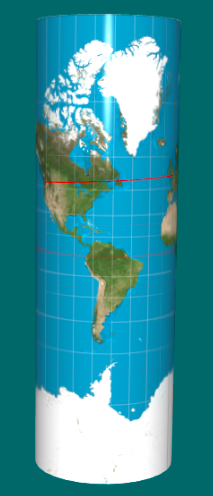
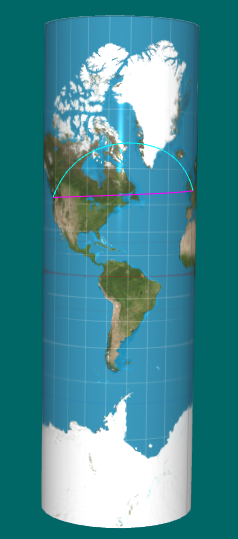
New images in doc.

diff --git a/13-webgl/extras/doc-light/global.html b/13-webgl/extras/doc-light/global.html
@@ -215,7 +215,7 @@ Step 0.5° ⇒ 60 fps = 30°/s ⇒ 360° in 12s
     
     <dt class="tag-source">Source:</dt>
     <dd class="tag-source"><ul class="dummy"><li>
-        <a href="extras_LightingWithTexture.js.html">extras/LightingWithTexture.js</a>, <a href="extras_LightingWithTexture.js.html#line6967">line 6967</a>
+        <a href="extras_LightingWithTexture.js.html">extras/LightingWithTexture.js</a>, <a href="extras_LightingWithTexture.js.html#line6977">line 6977</a>
     </li></ul></dd>
     
 
@@ -5906,7 +5906,7 @@ on the right (intrinsic rotation).
     
     <dt class="tag-source">Source:</dt>
     <dd class="tag-source"><ul class="dummy"><li>
-        <a href="extras_LightingWithTexture.js.html">extras/LightingWithTexture.js</a>, <a href="extras_LightingWithTexture.js.html#line7001">line 7001</a>
+        <a href="extras_LightingWithTexture.js.html">extras/LightingWithTexture.js</a>, <a href="extras_LightingWithTexture.js.html#line7011">line 7011</a>
     </li></ul></dd>
     
 
@@ -12767,7 +12767,7 @@ Then, triggers the animation to update the canvas.
     
     <dt class="tag-source">Source:</dt>
     <dd class="tag-source"><ul class="dummy"><li>
-        <a href="extras_LightingWithTexture.js.html">extras/LightingWithTexture.js</a>, <a href="extras_LightingWithTexture.js.html#line6734">line 6734</a>
+        <a href="extras_LightingWithTexture.js.html">extras/LightingWithTexture.js</a>, <a href="extras_LightingWithTexture.js.html#line6744">line 6744</a>
     </li></ul></dd>
     
 
@@ -22295,7 +22295,7 @@ if longitude is in the western hemisphere.
     
     <dt class="tag-source">Source:</dt>
     <dd class="tag-source"><ul class="dummy"><li>
-        <a href="extras_LightingWithTexture.js.html">extras/LightingWithTexture.js</a>, <a href="extras_LightingWithTexture.js.html#line6952">line 6952</a>
+        <a href="extras_LightingWithTexture.js.html">extras/LightingWithTexture.js</a>, <a href="extras_LightingWithTexture.js.html#line6962">line 6962</a>
     </li></ul></dd>
     
 
@@ -22457,7 +22457,7 @@ The perpendicular vector is in the xz-plane, with y = 0.
     
     <dt class="tag-source">Source:</dt>
     <dd class="tag-source"><ul class="dummy"><li>
-        <a href="extras_LightingWithTexture.js.html">extras/LightingWithTexture.js</a>, <a href="extras_LightingWithTexture.js.html#line6932">line 6932</a>
+        <a href="extras_LightingWithTexture.js.html">extras/LightingWithTexture.js</a>, <a href="extras_LightingWithTexture.js.html#line6942">line 6942</a>
     </li></ul></dd>
     
 
@@ -22980,7 +22980,7 @@ Uses the <a href="global.html#lightingShader">lightingShader</a>.
     
     <dt class="tag-source">Source:</dt>
     <dd class="tag-source"><ul class="dummy"><li>
-        <a href="extras_LightingWithTexture.js.html">extras/LightingWithTexture.js</a>, <a href="extras_LightingWithTexture.js.html#line6845">line 6845</a>
+        <a href="extras_LightingWithTexture.js.html">extras/LightingWithTexture.js</a>, <a href="extras_LightingWithTexture.js.html#line6855">line 6855</a>
     </li></ul></dd>
     
 
@@ -24295,7 +24295,7 @@ against a <a href="https://mathworld.wolfram.com/QuadraticSurface.html">quadric 
     
     <dt class="tag-source">Source:</dt>
     <dd class="tag-source"><ul class="dummy"><li>
-        <a href="extras_LightingWithTexture.js.html">extras/LightingWithTexture.js</a>, <a href="extras_LightingWithTexture.js.html#line6753">line 6753</a>
+        <a href="extras_LightingWithTexture.js.html">extras/LightingWithTexture.js</a>, <a href="extras_LightingWithTexture.js.html#line6763">line 6763</a>
     </li></ul></dd>
     
 
@@ -24482,7 +24482,7 @@ against a <a href="https://mathworld.wolfram.com/QuadraticSurface.html">quadric 
     
     <dt class="tag-source">Source:</dt>
     <dd class="tag-source"><ul class="dummy"><li>
-        <a href="extras_LightingWithTexture.js.html">extras/LightingWithTexture.js</a>, <a href="extras_LightingWithTexture.js.html#line6400">line 6400</a>
+        <a href="extras_LightingWithTexture.js.html">extras/LightingWithTexture.js</a>, <a href="extras_LightingWithTexture.js.html#line6410">line 6410</a>
     </li></ul></dd>
     
 
@@ -24701,7 +24701,7 @@ against a <a href="https://mathworld.wolfram.com/QuadraticSurface.html">quadric 
     
     <dt class="tag-source">Source:</dt>
     <dd class="tag-source"><ul class="dummy"><li>
-        <a href="extras_LightingWithTexture.js.html">extras/LightingWithTexture.js</a>, <a href="extras_LightingWithTexture.js.html#line6358">line 6358</a>
+        <a href="extras_LightingWithTexture.js.html">extras/LightingWithTexture.js</a>, <a href="extras_LightingWithTexture.js.html#line6368">line 6368</a>
     </li></ul></dd>
     
 
@@ -24881,7 +24881,7 @@ against a <a href="https://mathworld.wolfram.com/QuadraticSurface.html">quadric 
     
     <dt class="tag-source">Source:</dt>
     <dd class="tag-source"><ul class="dummy"><li>
-        <a href="extras_LightingWithTexture.js.html">extras/LightingWithTexture.js</a>, <a href="extras_LightingWithTexture.js.html#line6378">line 6378</a>
+        <a href="extras_LightingWithTexture.js.html">extras/LightingWithTexture.js</a>, <a href="extras_LightingWithTexture.js.html#line6388">line 6388</a>
     </li></ul></dd>
     
 
@@ -25100,7 +25100,7 @@ against a <a href="https://mathworld.wolfram.com/QuadraticSurface.html">quadric 
     
     <dt class="tag-source">Source:</dt>
     <dd class="tag-source"><ul class="dummy"><li>
-        <a href="extras_LightingWithTexture.js.html">extras/LightingWithTexture.js</a>, <a href="extras_LightingWithTexture.js.html#line6337">line 6337</a>
+        <a href="extras_LightingWithTexture.js.html">extras/LightingWithTexture.js</a>, <a href="extras_LightingWithTexture.js.html#line6347">line 6347</a>
     </li></ul></dd>
     
 
@@ -25438,7 +25438,7 @@ number of great circles that pass through them.
     
     <dt class="tag-source">Source:</dt>
     <dd class="tag-source"><ul class="dummy"><li>
-        <a href="extras_LightingWithTexture.js.html">extras/LightingWithTexture.js</a>, <a href="extras_LightingWithTexture.js.html#line6270">line 6270</a>
+        <a href="extras_LightingWithTexture.js.html">extras/LightingWithTexture.js</a>, <a href="extras_LightingWithTexture.js.html#line6280">line 6280</a>
     </li></ul></dd>
     
 
@@ -25650,7 +25650,7 @@ number of great circles that pass through them.
     
     <dt class="tag-source">Source:</dt>
     <dd class="tag-source"><ul class="dummy"><li>
-        <a href="extras_LightingWithTexture.js.html">extras/LightingWithTexture.js</a>, <a href="extras_LightingWithTexture.js.html#line6713">line 6713</a>
+        <a href="extras_LightingWithTexture.js.html">extras/LightingWithTexture.js</a>, <a href="extras_LightingWithTexture.js.html#line6723">line 6723</a>
     </li></ul></dd>
     
 
@@ -26024,6 +26024,9 @@ this path is a circular helix, which has constant curvature and constant torsion
     <p>Return an array with n points on a loxodrome (rhumb line) from loc1
 to loc2 on a sphere, by using a <a href="global.html#longitudeOnRhumbLine">parametrization</a>
 of the loxodrome.</p>
+The loxodrome path is calculated in 3D onto the sphere, and not using the planar chart.
+Therefore, the correct curve will be traced even for an equirectanguler cylindrical projection,
+as opposed to <a href="global.html#pointsOnLoxodrome">pointsOnLoxodrome</a>, which is faster but intended to Mercator projections.
 </div>
 
 
@@ -26206,7 +26209,7 @@ of the loxodrome.</p>
     
     <dt class="tag-source">Source:</dt>
     <dd class="tag-source"><ul class="dummy"><li>
-        <a href="extras_LightingWithTexture.js.html">extras/LightingWithTexture.js</a>, <a href="extras_LightingWithTexture.js.html#line6166">line 6166</a>
+        <a href="extras_LightingWithTexture.js.html">extras/LightingWithTexture.js</a>, <a href="extras_LightingWithTexture.js.html#line6176">line 6176</a>
     </li></ul></dd>
     
 
@@ -26217,6 +26220,14 @@ of the loxodrome.</p>
     <dd class="tag-see">
         <ul>
             <li><a href="https://www.atractor.pt/mat/loxodromica/saber_parametrizacao1-_en.html">Parametrization of the loxodrome</a></li>
+        
+            <li><figure>
+     <a href="../images/Cape_Horn-Kurgan-sphere.png"><img src="../images/Cape_Horn-Kurgan-sphere.png" height="256"></a>
+     <a href="../images/Cape_Horn-Kurgan-map.png"><img src="../images/Cape_Horn-Kurgan-map.png" height="256"></a>
+     <a href="../images/Cape_Horn-Kurgan-cylinder.png"><img src="../images/Cape_Horn-Kurgan-cylinder.png" height="256"></a>
+     <a href="../images/Cape_Horn-Kurgan-cone.png"><img src="../images/Cape_Horn-Kurgan-cone.png" height="256"></a>
+     <figcaption style="font-size: 200%">Cape Horn - Kurgan (17150 km, 44.51°)</figcaption>
+     </figure></li>
         </ul>
     </dd>
     
@@ -28931,7 +28942,7 @@ is used as the starting point.
     
     <dt class="tag-source">Source:</dt>
     <dd class="tag-source"><ul class="dummy"><li>
-        <a href="extras_LightingWithTexture.js.html">extras/LightingWithTexture.js</a>, <a href="extras_LightingWithTexture.js.html#line6425">line 6425</a>
+        <a href="extras_LightingWithTexture.js.html">extras/LightingWithTexture.js</a>, <a href="extras_LightingWithTexture.js.html#line6435">line 6435</a>
     </li></ul></dd>
     
 
@@ -29306,7 +29317,7 @@ For instance, a cube's face texture coordinates span from 0 to 1.
     
     <dt class="tag-source">Source:</dt>
     <dd class="tag-source"><ul class="dummy"><li>
-        <a href="extras_LightingWithTexture.js.html">extras/LightingWithTexture.js</a>, <a href="extras_LightingWithTexture.js.html#line6798">line 6798</a>
+        <a href="extras_LightingWithTexture.js.html">extras/LightingWithTexture.js</a>, <a href="extras_LightingWithTexture.js.html#line6808">line 6808</a>
     </li></ul></dd>
     
 
@@ -30812,7 +30823,7 @@ redrawn.
     
     <dt class="tag-source">Source:</dt>
     <dd class="tag-source"><ul class="dummy"><li>
-        <a href="extras_LightingWithTexture.js.html">extras/LightingWithTexture.js</a>, <a href="extras_LightingWithTexture.js.html#line6506">line 6506</a>
+        <a href="extras_LightingWithTexture.js.html">extras/LightingWithTexture.js</a>, <a href="extras_LightingWithTexture.js.html#line6516">line 6516</a>
     </li></ul></dd>
     
 
@@ -34524,7 +34535,7 @@ model or not.
     
     <dt class="tag-source">Source:</dt>
     <dd class="tag-source"><ul class="dummy"><li>
-        <a href="extras_LightingWithTexture.js.html">extras/LightingWithTexture.js</a>, <a href="extras_LightingWithTexture.js.html#line6801">line 6801</a>
+        <a href="extras_LightingWithTexture.js.html">extras/LightingWithTexture.js</a>, <a href="extras_LightingWithTexture.js.html#line6811">line 6811</a>
     </li></ul></dd>
     
 
@@ -34612,7 +34623,7 @@ model or not.
     
     <dt class="tag-source">Source:</dt>
     <dd class="tag-source"><ul class="dummy"><li>
-        <a href="extras_LightingWithTexture.js.html">extras/LightingWithTexture.js</a>, <a href="extras_LightingWithTexture.js.html#line7007">line 7007</a>
+        <a href="extras_LightingWithTexture.js.html">extras/LightingWithTexture.js</a>, <a href="extras_LightingWithTexture.js.html#line7017">line 7017</a>
     </li></ul></dd>
     
 
@@ -37564,7 +37575,7 @@ the event is dispatched.</p>
     
     <dt class="tag-source">Source:</dt>
     <dd class="tag-source"><ul class="dummy"><li>
-        <a href="extras_LightingWithTexture.js.html">extras/LightingWithTexture.js</a>, <a href="extras_LightingWithTexture.js.html#line6509">line 6509</a>
+        <a href="extras_LightingWithTexture.js.html">extras/LightingWithTexture.js</a>, <a href="extras_LightingWithTexture.js.html#line6519">line 6519</a>
     </li></ul></dd>
     
 
@@ -37762,7 +37773,7 @@ the event is dispatched.</p>
     
     <dt class="tag-source">Source:</dt>
     <dd class="tag-source"><ul class="dummy"><li>
-        <a href="extras_LightingWithTexture.js.html">extras/LightingWithTexture.js</a>, <a href="extras_LightingWithTexture.js.html#line6530">line 6530</a>
+        <a href="extras_LightingWithTexture.js.html">extras/LightingWithTexture.js</a>, <a href="extras_LightingWithTexture.js.html#line6540">line 6540</a>
     </li></ul></dd>
     
 
@@ -39539,7 +39550,7 @@ the event is dispatched.</p>
     
     <dt class="tag-source">Source:</dt>
     <dd class="tag-source"><ul class="dummy"><li>
-        <a href="extras_LightingWithTexture.js.html">extras/LightingWithTexture.js</a>, <a href="extras_LightingWithTexture.js.html#line6544">line 6544</a>
+        <a href="extras_LightingWithTexture.js.html">extras/LightingWithTexture.js</a>, <a href="extras_LightingWithTexture.js.html#line6554">line 6554</a>
     </li></ul></dd>
     
 
@@ -39747,7 +39758,7 @@ Executed when the slider is changed.
 <br class="clear">
 
 <footer>
-    Documentation generated by <a href="https://github.com/jsdoc/jsdoc">JSDoc 4.0.4</a> on Sun May 24 2026 08:45:59 GMT-0300 (Brasilia Standard Time)
+    Documentation generated by <a href="https://github.com/jsdoc/jsdoc">JSDoc 4.0.4</a> on Sun May 24 2026 10:15:10 GMT-0300 (Brasilia Standard Time)
 </footer>
 
 <script> prettyPrint(); </script>

diff --git a/13-webgl/extras/doc-light/extras_LightingWithTexture.js.html b/13-webgl/extras/doc-light/extras_LightingWithTexture.js.html
@@ -6185,11 +6185,21 @@ function longitudeOnRhumbLine(long0, lat0, lat, bearing) {
  * &lt;p>Return an array with n points on a loxodrome (rhumb line) from loc1
  * to loc2 on a sphere, by using a {@link longitudeOnRhumbLine parametrization}
  * of the loxodrome.&lt;/p>
+ * The loxodrome path is calculated in 3D onto the sphere, and not using the planar chart.
+ * Therefore, the correct curve will be traced even for an equirectanguler cylindrical projection,
+ * as opposed to {@link pointsOnLoxodrome}, which is faster but intended to Mercator projections.
  * @param {gpsCoordinates} loc1 first location with latitude and longitude.
  * @param {gpsCoordinates} loc2 second location with latitude and longitude.
  * @param {Number} [n={@link nsegments}] number of points.
  * @returns {Float32Array} array with cartesian coordinates.
  * @see {@link https://www.atractor.pt/mat/loxodromica/saber_parametrizacao1-_en.html Parametrization of the loxodrome}
+ * @see &lt;figure>
+ *      &lt;a href="../images/Cape_Horn-Kurgan-sphere.png">&lt;img src="../images/Cape_Horn-Kurgan-sphere.png" height="256">&lt;/a>
+ *      &lt;a href="../images/Cape_Horn-Kurgan-map.png">&lt;img src="../images/Cape_Horn-Kurgan-map.png" height="256">&lt;/a>
+ *      &lt;a href="../images/Cape_Horn-Kurgan-cylinder.png">&lt;img src="../images/Cape_Horn-Kurgan-cylinder.png" height="256">&lt;/a>
+ *      &lt;a href="../images/Cape_Horn-Kurgan-cone.png">&lt;img src="../images/Cape_Horn-Kurgan-cone.png" height="256">&lt;/a>
+ *      &lt;figcaption style="font-size: 200%">Cape Horn - Kurgan (17150 km, 44.51°)&lt;/figcaption>
+ *      &lt;/figure>
  */
 function pointsOnLoxodrome2(loc1, loc2, n = nsegments) {
   const lat1 = clamp(loc1.latitude, -maxLatitude, maxLatitude);
@@ -7088,7 +7098,7 @@ const animate = (() => {
 <br class="clear">
 
 <footer>
-    Documentation generated by <a href="https://github.com/jsdoc/jsdoc">JSDoc 4.0.4</a> on Sun May 24 2026 08:45:59 GMT-0300 (Brasilia Standard Time)
+    Documentation generated by <a href="https://github.com/jsdoc/jsdoc">JSDoc 4.0.4</a> on Sun May 24 2026 10:15:10 GMT-0300 (Brasilia Standard Time)
 </footer>
 
 <script> prettyPrint(); </script>

diff --git a/13-webgl/extras/LightingWithTexture.js b/13-webgl/extras/LightingWithTexture.js
@@ -6157,11 +6157,21 @@ function longitudeOnRhumbLine(long0, lat0, lat, bearing) {
  * <p>Return an array with n points on a loxodrome (rhumb line) from loc1
  * to loc2 on a sphere, by using a {@link longitudeOnRhumbLine parametrization}
  * of the loxodrome.</p>
+ * The loxodrome path is calculated in 3D onto the sphere, and not using the planar chart.
+ * Therefore, the correct curve will be traced even for an equirectanguler cylindrical projection,
+ * as opposed to {@link pointsOnLoxodrome}, which is faster but intended to Mercator projections.
  * @param {gpsCoordinates} loc1 first location with latitude and longitude.
  * @param {gpsCoordinates} loc2 second location with latitude and longitude.
  * @param {Number} [n={@link nsegments}] number of points.
  * @returns {Float32Array} array with cartesian coordinates.
  * @see {@link https://www.atractor.pt/mat/loxodromica/saber_parametrizacao1-_en.html Parametrization of the loxodrome}
+ * @see <figure>
+ *      <a href="../images/Cape_Horn-Kurgan-sphere.png"><img src="../images/Cape_Horn-Kurgan-sphere.png" height="256"></a>
+ *      <a href="../images/Cape_Horn-Kurgan-map.png"><img src="../images/Cape_Horn-Kurgan-map.png" height="256"></a>
+ *      <a href="../images/Cape_Horn-Kurgan-cylinder.png"><img src="../images/Cape_Horn-Kurgan-cylinder.png" height="256"></a>
+ *      <a href="../images/Cape_Horn-Kurgan-cone.png"><img src="../images/Cape_Horn-Kurgan-cone.png" height="256"></a>
+ *      <figcaption style="font-size: 200%">Cape Horn - Kurgan (17150 km, 44.51°)</figcaption>
+ *      </figure>
  */
 function pointsOnLoxodrome2(loc1, loc2, n = nsegments) {
   const lat1 = clamp(loc1.latitude, -maxLatitude, maxLatitude);

diff --git a/13-webgl/extras/doc-light/SimpleRotator.html b/13-webgl/extras/doc-light/SimpleRotator.html
@@ -1125,7 +1125,7 @@ If not present, the length of viewDirectionVector is used.
 <br class="clear">
 
 <footer>
-    Documentation generated by <a href="https://github.com/jsdoc/jsdoc">JSDoc 4.0.4</a> on Sun May 24 2026 08:46:00 GMT-0300 (Brasilia Standard Time)
+    Documentation generated by <a href="https://github.com/jsdoc/jsdoc">JSDoc 4.0.4</a> on Sun May 24 2026 10:15:11 GMT-0300 (Brasilia Standard Time)
 </footer>
 
 <script> prettyPrint(); </script>

diff --git a/13-webgl/extras/doc-light/THREE.BufferGeometry.html b/13-webgl/extras/doc-light/THREE.BufferGeometry.html
@@ -172,7 +172,7 @@ passing all this data to the GPU.
 <br class="clear">
 
 <footer>
-    Documentation generated by <a href="https://github.com/jsdoc/jsdoc">JSDoc 4.0.4</a> on Sun May 24 2026 08:46:00 GMT-0300 (Brasilia Standard Time)
+    Documentation generated by <a href="https://github.com/jsdoc/jsdoc">JSDoc 4.0.4</a> on Sun May 24 2026 10:15:11 GMT-0300 (Brasilia Standard Time)
 </footer>
 
 <script> prettyPrint(); </script>

diff --git a/13-webgl/extras/doc-light/THREE.html b/13-webgl/extras/doc-light/THREE.html
@@ -131,7 +131,7 @@
 <br class="clear">
 
 <footer>
-    Documentation generated by <a href="https://github.com/jsdoc/jsdoc">JSDoc 4.0.4</a> on Sun May 24 2026 08:46:00 GMT-0300 (Brasilia Standard Time)
+    Documentation generated by <a href="https://github.com/jsdoc/jsdoc">JSDoc 4.0.4</a> on Sun May 24 2026 10:15:11 GMT-0300 (Brasilia Standard Time)
 </footer>
 
 <script> prettyPrint(); </script>

diff --git a/13-webgl/extras/doc-light/TeapotGeometry.html b/13-webgl/extras/doc-light/TeapotGeometry.html
@@ -631,7 +631,7 @@ YouTube video on teapot history: <a href="https://www.youtube.com/watch?v=DxMfbl
 <br class="clear">
 
 <footer>
-    Documentation generated by <a href="https://github.com/jsdoc/jsdoc">JSDoc 4.0.4</a> on Sun May 24 2026 08:46:00 GMT-0300 (Brasilia Standard Time)
+    Documentation generated by <a href="https://github.com/jsdoc/jsdoc">JSDoc 4.0.4</a> on Sun May 24 2026 10:15:11 GMT-0300 (Brasilia Standard Time)
 </footer>
 
 <script> prettyPrint(); </script>

diff --git a/13-webgl/extras/doc-light/external-three.html b/13-webgl/extras/doc-light/external-three.html
@@ -155,7 +155,7 @@
 <br class="clear">
 
 <footer>
-    Documentation generated by <a href="https://github.com/jsdoc/jsdoc">JSDoc 4.0.4</a> on Sun May 24 2026 08:46:00 GMT-0300 (Brasilia Standard Time)
+    Documentation generated by <a href="https://github.com/jsdoc/jsdoc">JSDoc 4.0.4</a> on Sun May 24 2026 10:15:11 GMT-0300 (Brasilia Standard Time)
 </footer>
 
 <script> prettyPrint(); </script>

diff --git a/13-webgl/extras/doc-light/index.html b/13-webgl/extras/doc-light/index.html
@@ -1440,7 +1440,7 @@ for interactive 3D model manipulation and visualization.
 <br class="clear">
 
 <footer>
-    Documentation generated by <a href="https://github.com/jsdoc/jsdoc">JSDoc 4.0.4</a> on Sun May 24 2026 08:46:00 GMT-0300 (Brasilia Standard Time)
+    Documentation generated by <a href="https://github.com/jsdoc/jsdoc">JSDoc 4.0.4</a> on Sun May 24 2026 10:15:11 GMT-0300 (Brasilia Standard Time)
 </footer>
 
 <script> prettyPrint(); </script>

diff --git a/13-webgl/extras/doc-light/lib_TeapotGeometry.js.html b/13-webgl/extras/doc-light/lib_TeapotGeometry.js.html
@@ -762,7 +762,7 @@ export { TeapotGeometry };
 <br class="clear">
 
 <footer>
-    Documentation generated by <a href="https://github.com/jsdoc/jsdoc">JSDoc 4.0.4</a> on Sun May 24 2026 08:45:59 GMT-0300 (Brasilia Standard Time)
+    Documentation generated by <a href="https://github.com/jsdoc/jsdoc">JSDoc 4.0.4</a> on Sun May 24 2026 10:15:10 GMT-0300 (Brasilia Standard Time)
 </footer>
 
 <script> prettyPrint(); </script>

diff --git a/13-webgl/extras/doc-light/lib_basic-objects-IFS.js.html b/13-webgl/extras/doc-light/lib_basic-objects-IFS.js.html
@@ -1796,7 +1796,7 @@ const teapotModel = {
 <br class="clear">
 
 <footer>
-    Documentation generated by <a href="https://github.com/jsdoc/jsdoc">JSDoc 4.0.4</a> on Sun May 24 2026 08:45:59 GMT-0300 (Brasilia Standard Time)
+    Documentation generated by <a href="https://github.com/jsdoc/jsdoc">JSDoc 4.0.4</a> on Sun May 24 2026 10:15:10 GMT-0300 (Brasilia Standard Time)
 </footer>
 
 <script> prettyPrint(); </script>

diff --git a/13-webgl/extras/doc-light/lib_gl-matrix_dist_esm_common.js.html b/13-webgl/extras/doc-light/lib_gl-matrix_dist_esm_common.js.html
@@ -109,7 +109,7 @@ if (!Math.hypot)
 <br class="clear">
 
 <footer>
-    Documentation generated by <a href="https://github.com/jsdoc/jsdoc">JSDoc 4.0.4</a> on Sun May 24 2026 08:45:59 GMT-0300 (Brasilia Standard Time)
+    Documentation generated by <a href="https://github.com/jsdoc/jsdoc">JSDoc 4.0.4</a> on Sun May 24 2026 10:15:10 GMT-0300 (Brasilia Standard Time)
 </footer>
 
 <script> prettyPrint(); </script>